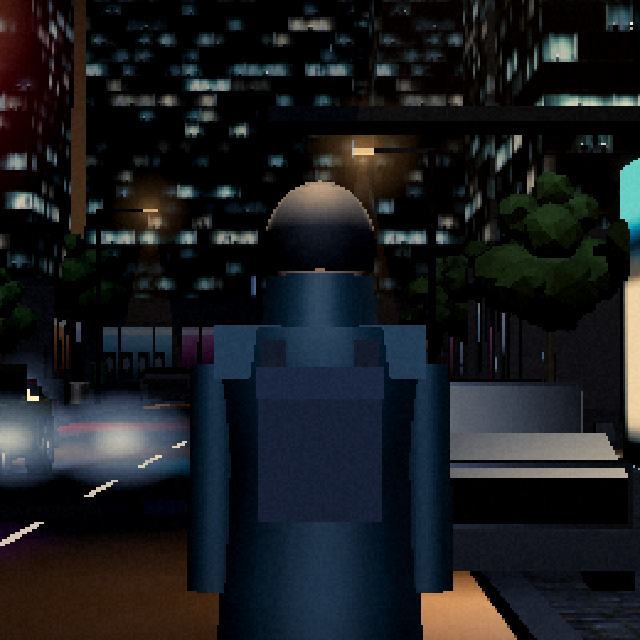
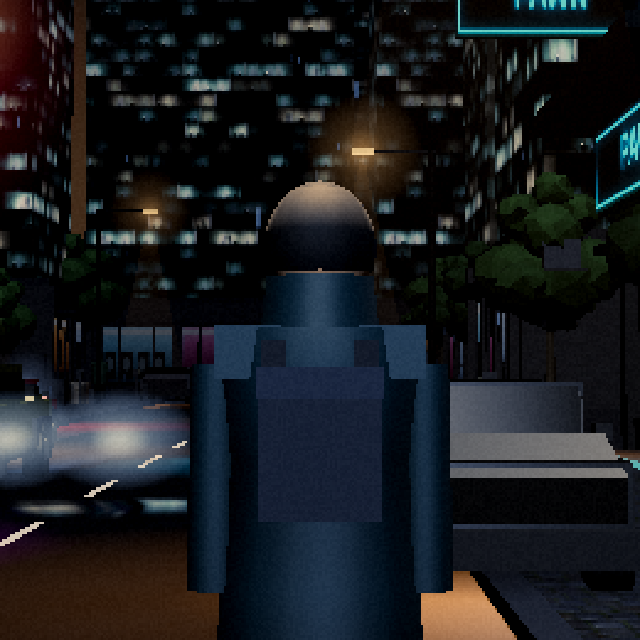
feat(render): a pavement with things on it, and paint that stays paint (VGA-030/021)
Two problems, one frame.

Car paint was metalness 0.6 at envMapIntensity 1.9. That is not car paint,
it is bare metal: every up-facing panel mirrored the sky, so from the chase
camera the roof and boot of a parked car merged into one blown-out white
slab with no colour left in it. In the daylight frame it was the worst
object on screen. Car paint is pigment under clearcoat — metalness 0.14,
env 1.05, roughness 0.32. The colour survives and there is still enough
gloss for the sign wash to land on it.

The pavement had bollards, drain grates and two bins for a whole block,
which is a model of a street rather than a street. Now it also has:

- parking meters along every kerb, each with a small lit face
- bike hoops, the cheapest object that says people arrive under their own
  power
- stacked timber crates by the back doors
- two-leaf A-boards (one plate is a blank panel standing in the road; two
  is something somebody put out)
- downpipes with hoppers and shoes running the podium walls, and bracketed
  condenser units above head height

The wall pieces matter as much as the pavement ones — a podium wall with
nothing on it is a painted plane at any distance.

All of it merges into the curb-clutter mesh that already existed, and each
part carries a per-channel vertex tint, so warm timber and cold steel come
out of one material. A street's worth of furniture for nothing.

Draws: 153 peak / 139 mode on the same scripted sweep — unchanged.
[…]

diff --git a/src/render/block.js b/src/render/block.js
@@ -110,9 +110,13 @@ export function buildGround(texLoader, maxAniso) {
   for (const [bx, bz] of boxPositions) {
     clutter.push(box(0.6, 1.0, 0.5, bx, 0.5, bz));
   }
-  const clutterMesh = new THREE.Mesh(mergeGeometries(clutter), new THREE.MeshStandardMaterial({
-    color: 0x2a2d33, roughness: 0.8, metalness: 0.3,
-  }));
+  for (const ax of [0, 44, -44]) for (const side of [-1, 1]) pavementFurniture(clutter, ax, side);
+  const clutterMesh = new THREE.Mesh(
+    mergeGeometries(clutter.map((g) => (g.attributes.color ? g : tint(g, 1)))),
+    new THREE.MeshStandardMaterial({
+      color: 0x2a2d33, roughness: 0.8, metalness: 0.3, vertexColors: true,
+    })
+  );
   clutterMesh.castShadow = true;
   clutterMesh.receiveShadow = true;
   group.add(clutterMesh);
@@ -408,6 +412,66 @@ function towerMaterials(texLoader, maxAniso) {
     zoneMats: [[...kinds.map((twins) => twins[0]), shopGlass[0]],
       [...kinds.map((twins) => twins[1]), shopGlass[1]]],
   };
+}
+
+// One flat colour multiplier baked into a part before it joins the shared
+// clutter mesh. Per channel, so a crate can be warm timber and a downpipe
+// cold steel out of the same material and the same draw.
+function tint(geo, r, g = r, b = r) {
+  const n = geo.attributes.position.count;
+  const col = new Float32Array(n * 3);
+  for (let i = 0; i < n; i += 1) { col[i * 3] = r; col[i * 3 + 1] = g; col[i * 3 + 2] = b; }
+  geo.setAttribute('color', new THREE.BufferAttribute(col, 3));
+  return geo;
+}
+
+// Everything a real pavement has and a modelled one does not: meters to walk
+// past, bikes locked to hoops, stock waiting outside a back door, and the
+// plant on the wall behind it all. Every piece merges into the clutter mesh
+// that already exists, so a street's worth of life costs no draw at all.
+function pavementFurniture(out, ax, side) {
+  const kerb = ax + side * 4.35;
+  const mid = ax + side * 6.1;
+  const wall = ax + side * 7.62;
+  for (let z = -72; z <= 72; z += 16) {
+    out.push(tint(box(0.09, 1.1, 0.09, kerb, 0.55, z + 8), 0.9));
+    out.push(tint(box(0.17, 0.3, 0.13, kerb, 1.2, z + 8), 1.0));
+    out.push(tint(box(0.12, 0.12, 0.02, kerb - side * 0.07, 1.24, z + 8), 2.6, 2.3, 1.4));
+  }
+  for (let z = -66; z <= 66; z += 22) {
+    // Downpipe with its hopper: the one thing that stops a podium wall being
+    // a painted plane, and it reads at every distance.
+    out.push(tint(box(0.17, 4.2, 0.17, wall, 2.1, z), 0.8));
+    out.push(tint(box(0.34, 0.3, 0.3, wall, 4.05, z), 0.8));
+    out.push(tint(box(0.26, 0.26, 0.26, wall, 0.5, z), 0.8));
+  }
+  for (let z = -55; z <= 60; z += 38) {
+    // Condenser on a bracket, high enough to clear a head.
+    out.push(tint(box(0.78, 0.6, 0.46, ax + side * 7.4, 3.72, z), 1.5));
+    out.push(tint(box(0.9, 0.08, 0.1, ax + side * 7.5, 3.38, z), 0.7));
+  }
+  for (let z = -48; z <= 60; z += 27) {
+    // Bike hoop: two posts and a bar, the cheapest object that says people
+    // arrive here under their own power.
+    for (const dz of [-0.36, 0.36]) out.push(tint(box(0.07, 0.78, 0.07, mid, 0.39, z + dz), 1.1));
+    out.push(tint(box(0.07, 0.07, 0.79, mid, 0.78, z), 1.1));
+  }
+  for (const z of [-34, 14, 52]) {
+    // Stock crates by a back door. Warm timber against all that cold steel.
+    out.push(tint(box(0.78, 0.5, 0.62, ax + side * 7.1, 0.25, z), 2.5, 1.95, 1.15));
+    out.push(tint(box(0.62, 0.44, 0.5, ax + side * 7.1, 0.72, z + 0.1), 2.2, 1.7, 1.0));
+  }
+  for (const z of [-24, 6, 44]) {
+    // A-board: two leaves leaning into each other. One plate is a blank
+    // panel standing in the street; two is a thing somebody put out.
+    for (const lean of [0.19, -0.19]) {
+      const a = box(0.6, 0.8, 0.05, 0, 0, 0);
+      a.rotateX(lean);
+      a.rotateY(side > 0 ? -1.35 : 1.35);
+      a.translate(mid + side * 0.35 + lean * 0.4, 0.39, z);
+      out.push(tint(a, 0.85));
+    }
+  }
 }
 
 // A box laid flat against a podium face. `alongZ` says the face normal points

diff --git a/src/render/traffic.js b/src/render/traffic.js
@@ -224,7 +224,16 @@ export function buildTraffic(street) {
   const dummy = new THREE.Object3D();
   // Sized by the street, not the moving count: parked cars ride free.
   const N = street.cars.length;
-  const bodies = new THREE.InstancedMesh(bodyGeo, new THREE.MeshStandardMaterial({ roughness: 0.24, metalness: 0.6, envMapIntensity: 1.9 }), N);
+  // Car paint is pigment under clearcoat, not bare metal. At metalness 0.6
+  // with env 1.9 every up-facing panel became a mirror of the sky, so from a
+  // chase camera the roof and boot of each car read as one blown-out white
+  // slab with no colour left in them — the single worst object in the frame.
+  // Metalness down, env down, roughness up a touch: the paint keeps its
+  // colour, and there is still enough gloss for the neon to land on it.
+  const paintMat = new THREE.MeshStandardMaterial({
+    roughness: 0.32, metalness: 0.14, envMapIntensity: 1.05,
+  });
+  const bodies = new THREE.InstancedMesh(bodyGeo, paintMat, N);
   bodies.castShadow = true;
   const wheels = new THREE.InstancedMesh(wheelGeo, wheelMaterial(), N);
   const beams = new THREE.InstancedMesh(beamGeo, new THREE.MeshBasicMaterial({ color: 0xd8ecff }), N);
@@ -324,7 +333,7 @@ export function updateCarPools(rig, cars, camera = null) {
 export function buildPlayerCar(scene, car) {
   const group = new THREE.Group();
   const paint = new THREE.Mesh(bodyGeo, new THREE.MeshStandardMaterial({
-    color: 0x8f4a0c, roughness: 0.22, metalness: 0.65, envMapIntensity: 2.0,
+    color: 0x8f4a0c, roughness: 0.30, metalness: 0.16, envMapIntensity: 1.1,
   }));
   paint.castShadow = true;
   const wheels = new THREE.Mesh(wheelGeo, wheelMaterial());

diff --git a/docs/VISUAL-GAP-ACTIONS.md b/docs/VISUAL-GAP-ACTIONS.md
@@ -93,7 +93,7 @@ before reinstating anything that was removed.
 
 - **VGA-019 Body variants.** ⏳ PARTIAL (slice 032: a second vehicle mesh costs four draws — paint, glass, trim, wheels — and the street did not need four more models, it needed to stop being one model repeated twenty-six times. The shared body now stretches per instance into five silhouettes: saloon, van, compact, wagon, low coupe. The greenhouse and the glass canopy ride the same numbers, so the roofline changes with the body instead of floating on it, and wheels take the width but never the height, because an ellipse where a tyre should be is worse than no variety. `shape` lives in sim car data beside `paint`, so a car keeps its body for life instead of changing shape when its render slot is reused. Evidence `slice-032-traffic-day.png` + `slice-032-traffic-night.png`. 156 peak, +0 draws. Taxi, bus and bike are still missing, and these are all stretches of one saloon — a genuinely different mesh still belongs here.) Draws: +3..5.
 - **VGA-020 Close-up detail.** ⏳ PARTIAL (slice 026: cars had no windows. The painted greenhouse box in `bodyGeo` enclosed the glass canopy on every side and the windshield was painted body colour too, so the whole fleet — traffic, hero, pursuit — rendered as one moulded lump. The greenhouse is now a frame: belt, roof and four pillars in paint, one glass shell holding cabin + raked windshield in the openings. Bumpers, mirrors, pillars, rocker sills and wheel-arch flares moved to a shared dark trim mesh, one instanced draw for all traffic. Evidence `slice-026-street-night.png` + `slice-026-street-day.png` + `slice-026-profile-night.png`. Measured 158 draws steady, 164 peak — +2 over the same sweep before. Slice 029 finished the job the chase camera exposed: the roof overhang hid the backlight from above, so the roof was shortened and a raked rear window added — the view the player holds all game was a slab of paint. The glass was also mirroring `scene.environment` (a PMREM of RoomEnvironment, far brighter than 1.0) into a blank white block at envMapIntensity 2.2; bisected against 0, it now sits at 0.22 and reads as tinted glass. Tyre and rim merged into one vertex-coloured mesh, which also removed a pair of exactly-coincident z-fighting hub cylinders. Evidence `slice-029-drive-night.png`. Wiper arcs, plates, panel gaps and liveries still open.) Done when: hero-car orbit close-up survives. Draws: +2, then -3 reclaimed.
-- **VGA-021 Paint that answers neon.** Clearcoat/env response so sign wash lands on bodies (fixes maroon-under-magenta). Done when: `slice-007-pursuit` angle re-shot, paint picks up wash. Draws: +0.
+- **VGA-021 Paint that answers neon.** ⏳ PARTIAL (slice 034: the paint was metalness 0.6 at envMapIntensity 1.9, which is not car paint, it is bare metal. Every up-facing panel mirrored the sky, so from the chase camera a parked car was one blown-out white slab with no colour left in it — the worst-reading object in the daylight frame. Car paint is pigment under clearcoat: metalness 0.14, env 1.05, roughness 0.32. The colour survives and there is still enough gloss for sign wash to land. True clearcoat and the maroon-under-magenta check are still open.) Draws: +0.
 - **VGA-022 Police build.** Push bar, livery + POLICE lettering, spotlight, alternating red/blue wash thrown on street and facades; wipers on all fleets. Done when: pursuit frame paints the towers red/blue. Draws: +1..2.
 - **VGA-023 Light language.** Headlight/taillight/brake behavior on traffic (brakes flare), night bodies catch light (no more ghost cars). Done when: night traffic reads mass + intent. Draws: +0.
 - **VGA-024 Cabs & glass.** Cabins, driver figures (VGA-017), windshield wiper motion in rain. Done when: windshield close-up in rain. Draws: +1.
@@ -108,7 +108,7 @@ before reinstating anything that was removed.
 - **VGA-027 Intersections, complete.** ⏳ PARTIAL (city-grid slice: zebra crossings over the z=40 connector at all 3 avenues + west-avenue dashes/edges/manholes + cross-street curbs + live E-W traffic/peds; hackable traffic lights, stop lines, walk boxes, signal poles still open). Traffic lights (hackable — feeds VGA-047), stop lines, ped walk/don't-walk boxes, turn arrows, signal poles. Done when: connector crossing re-shot dressed. Draws: +3..4.
 - **VGA-028 Road wear pass.** Patches, cracks, oil stains, drain grates, manholes readable at play distance, lane arrows, bus lanes. Done when: road close-up shows age. Draws: +1 (decal merge).
 - **VGA-029 Paving identity.** Downtown concrete/granite replacing old-town cobble; slab joints, grime gradients, tree grates. Done when: `slice-005-east` re-shot reads downtown. Draws: +0.
-- **VGA-030 Civic furniture set.** Meters, post boxes, ATMs, shelters, clocks, flags, banners, phone boxes (WD), street-name blades, addresses. Touches: one merged prop system. Done when: sidewalk frame carries 5+ nouns. Draws: +2..3.
+- **VGA-030 Civic furniture set.** ⏳ PARTIAL (slice 034: the pavement had bollards, grates and two bins for a whole block, which is a model of a street rather than a street. Added parking meters with a lit face along every kerb, bike hoops, stacked timber crates by the back doors, and two-leaf A-boards — plus, on the podium walls themselves, downpipes with hoppers and shoes, and bracketed condenser units above head height. The wall pieces matter as much as the pavement ones: a podium wall with nothing on it is a painted plane at any distance. Everything merges into the curb-clutter mesh that already existed and rides a per-channel vertex tint, so warm timber and cold steel come out of one material — a street of furniture for +0 draws. Evidence `slice-034-pavement-day.png` + `slice-034-street-day.png` + `slice-034-street-night.png`. 153 peak, unchanged. Post boxes, ATMs, shelters, clocks, banners and street-name blades still open.) Meters, post boxes, ATMs, shelters, clocks, flags, banners, phone boxes (WD), street-name blades, addresses. Draws: +2..3.
 - **VGA-031 Commerce clutter.** Carts, crates, pallets, A-frames, overflowing bins, parked bikes, newsstands, food carts, vending machines (glowing). Done when: shopfront frame spills onto pavement. Draws: +2..3.
 - **VGA-032 Paper on walls.** Flyers, posters, protest signs, ramen menus taped to glass, stickers, tags. Touches: decal merge + content file. Done when: wall close-up carries paper. Draws: +1.
 - **VGA-033 Grime & litter.** Stains, gum, runoff trails, litter scatter, hydrant-cluster mess. Done when: hero-can frame (`slice-008-beauty` angle) has a dirty neighborhood. Draws: +1.
